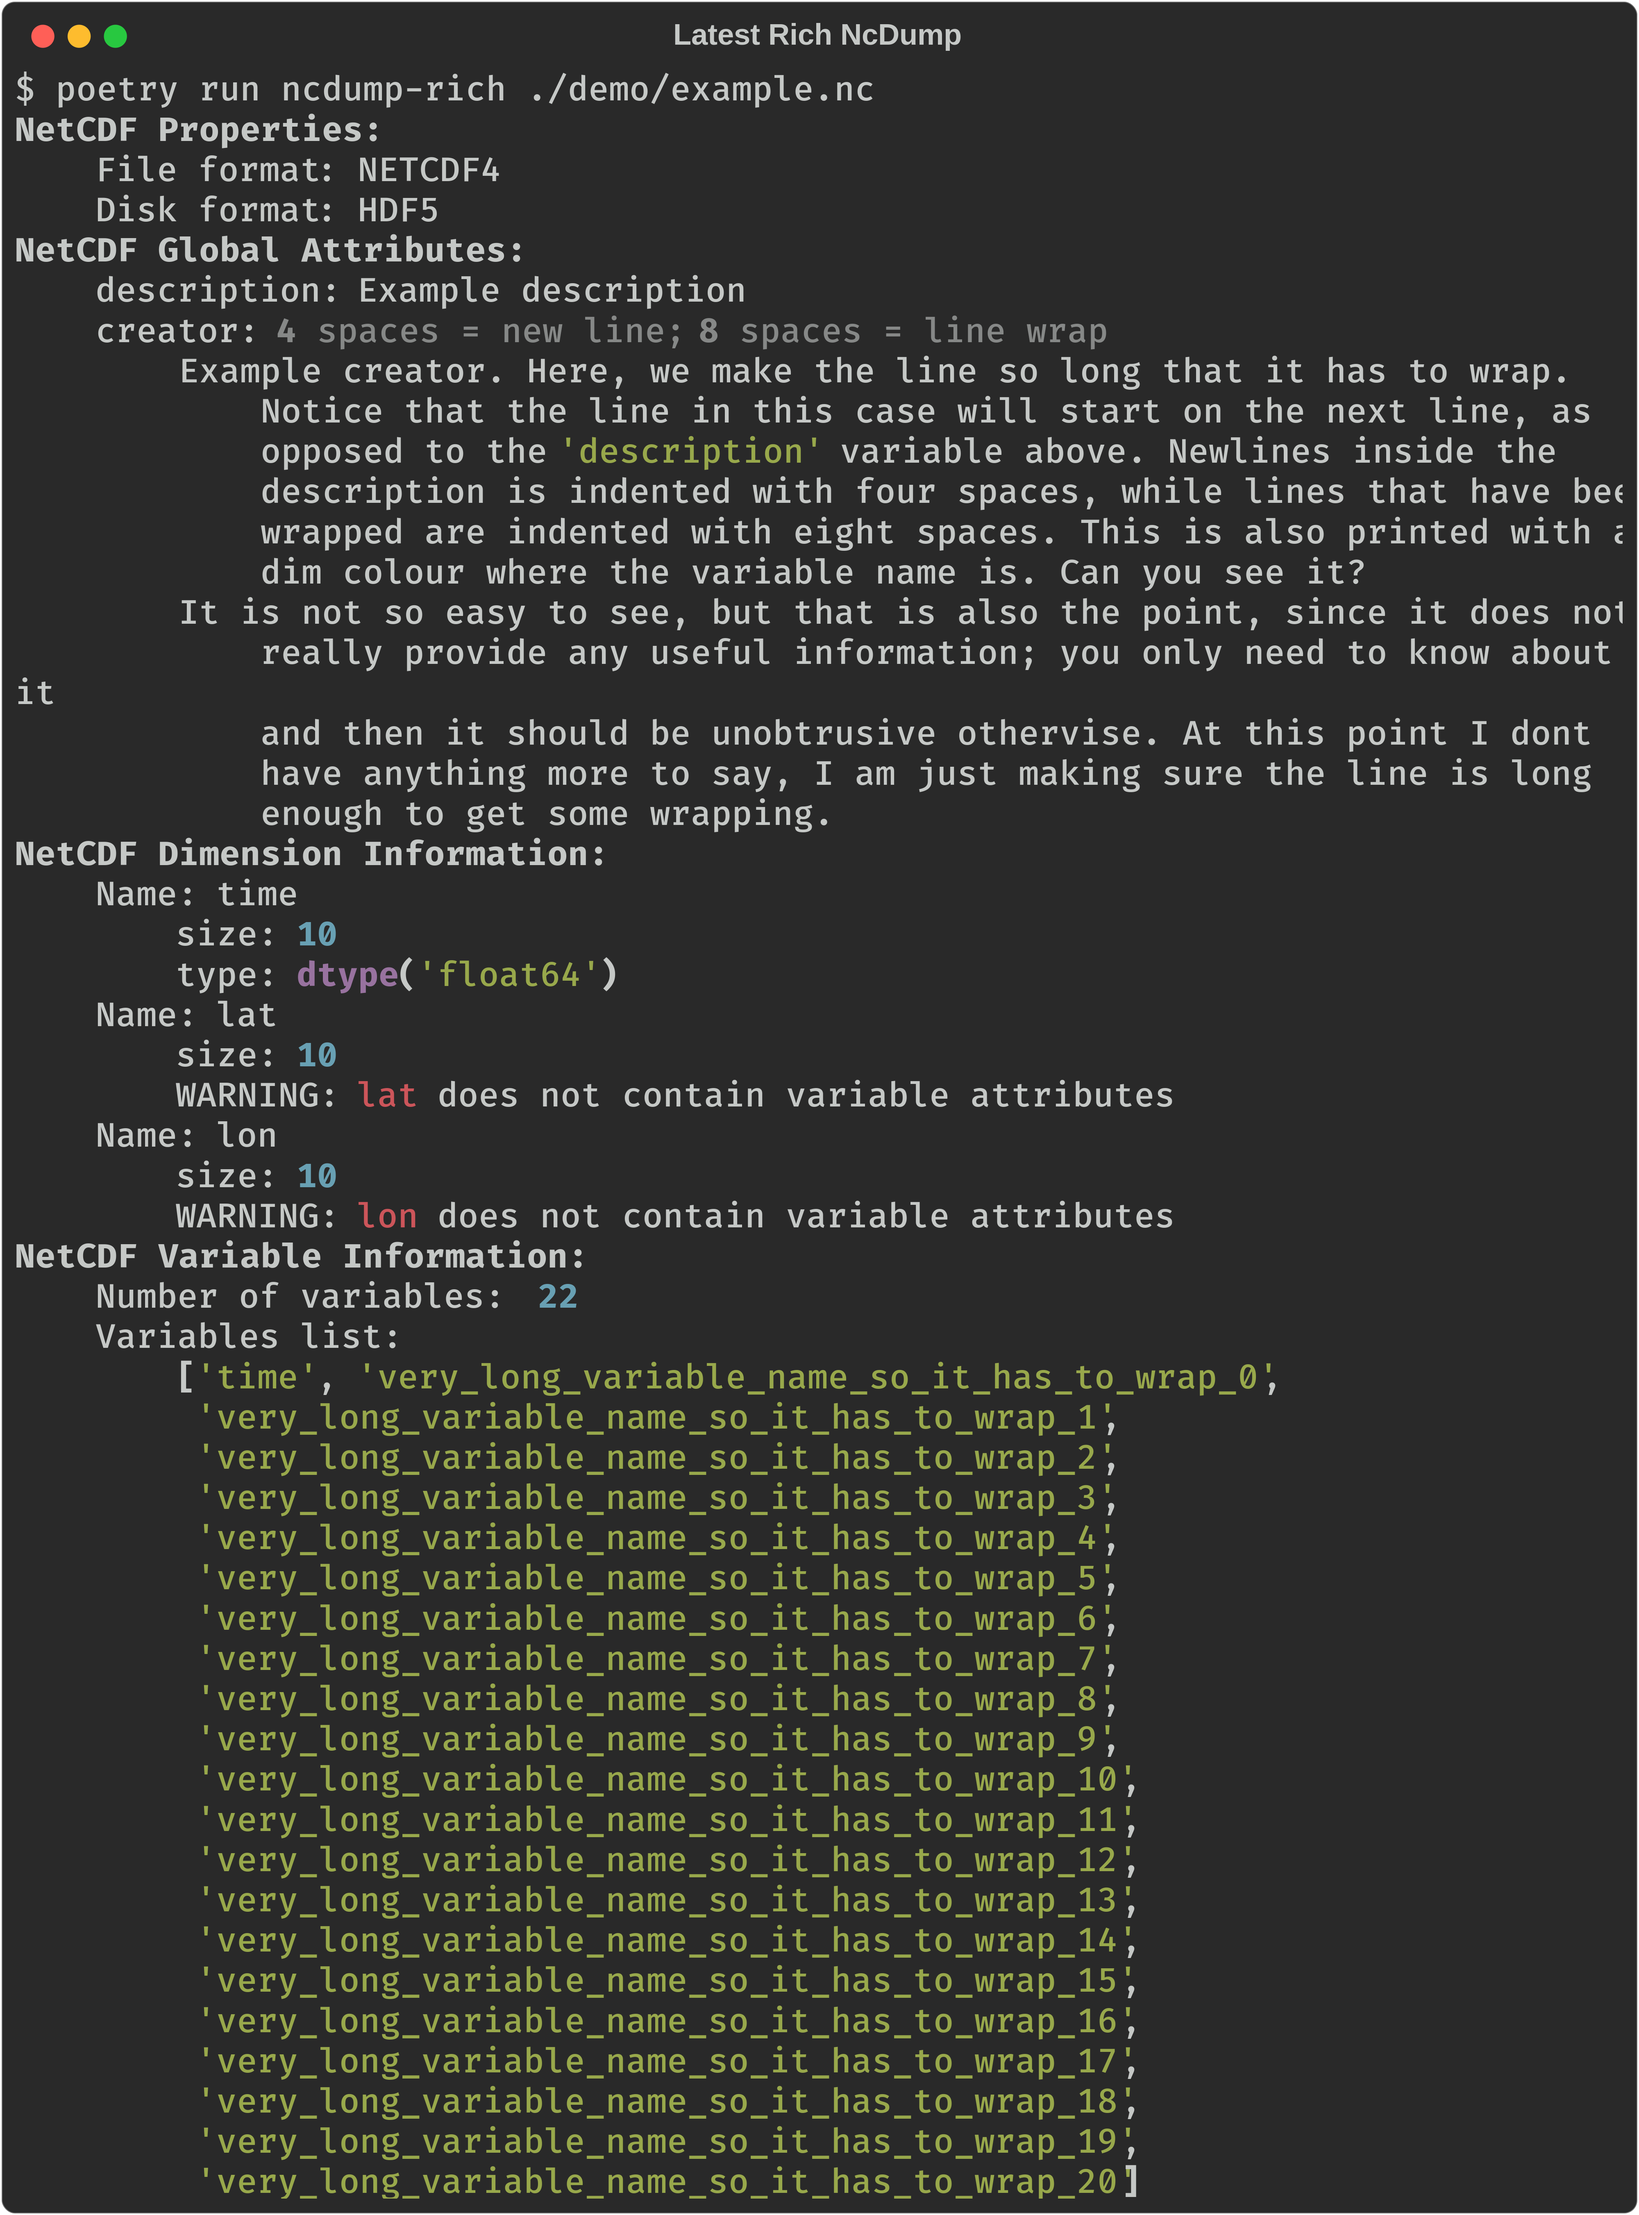
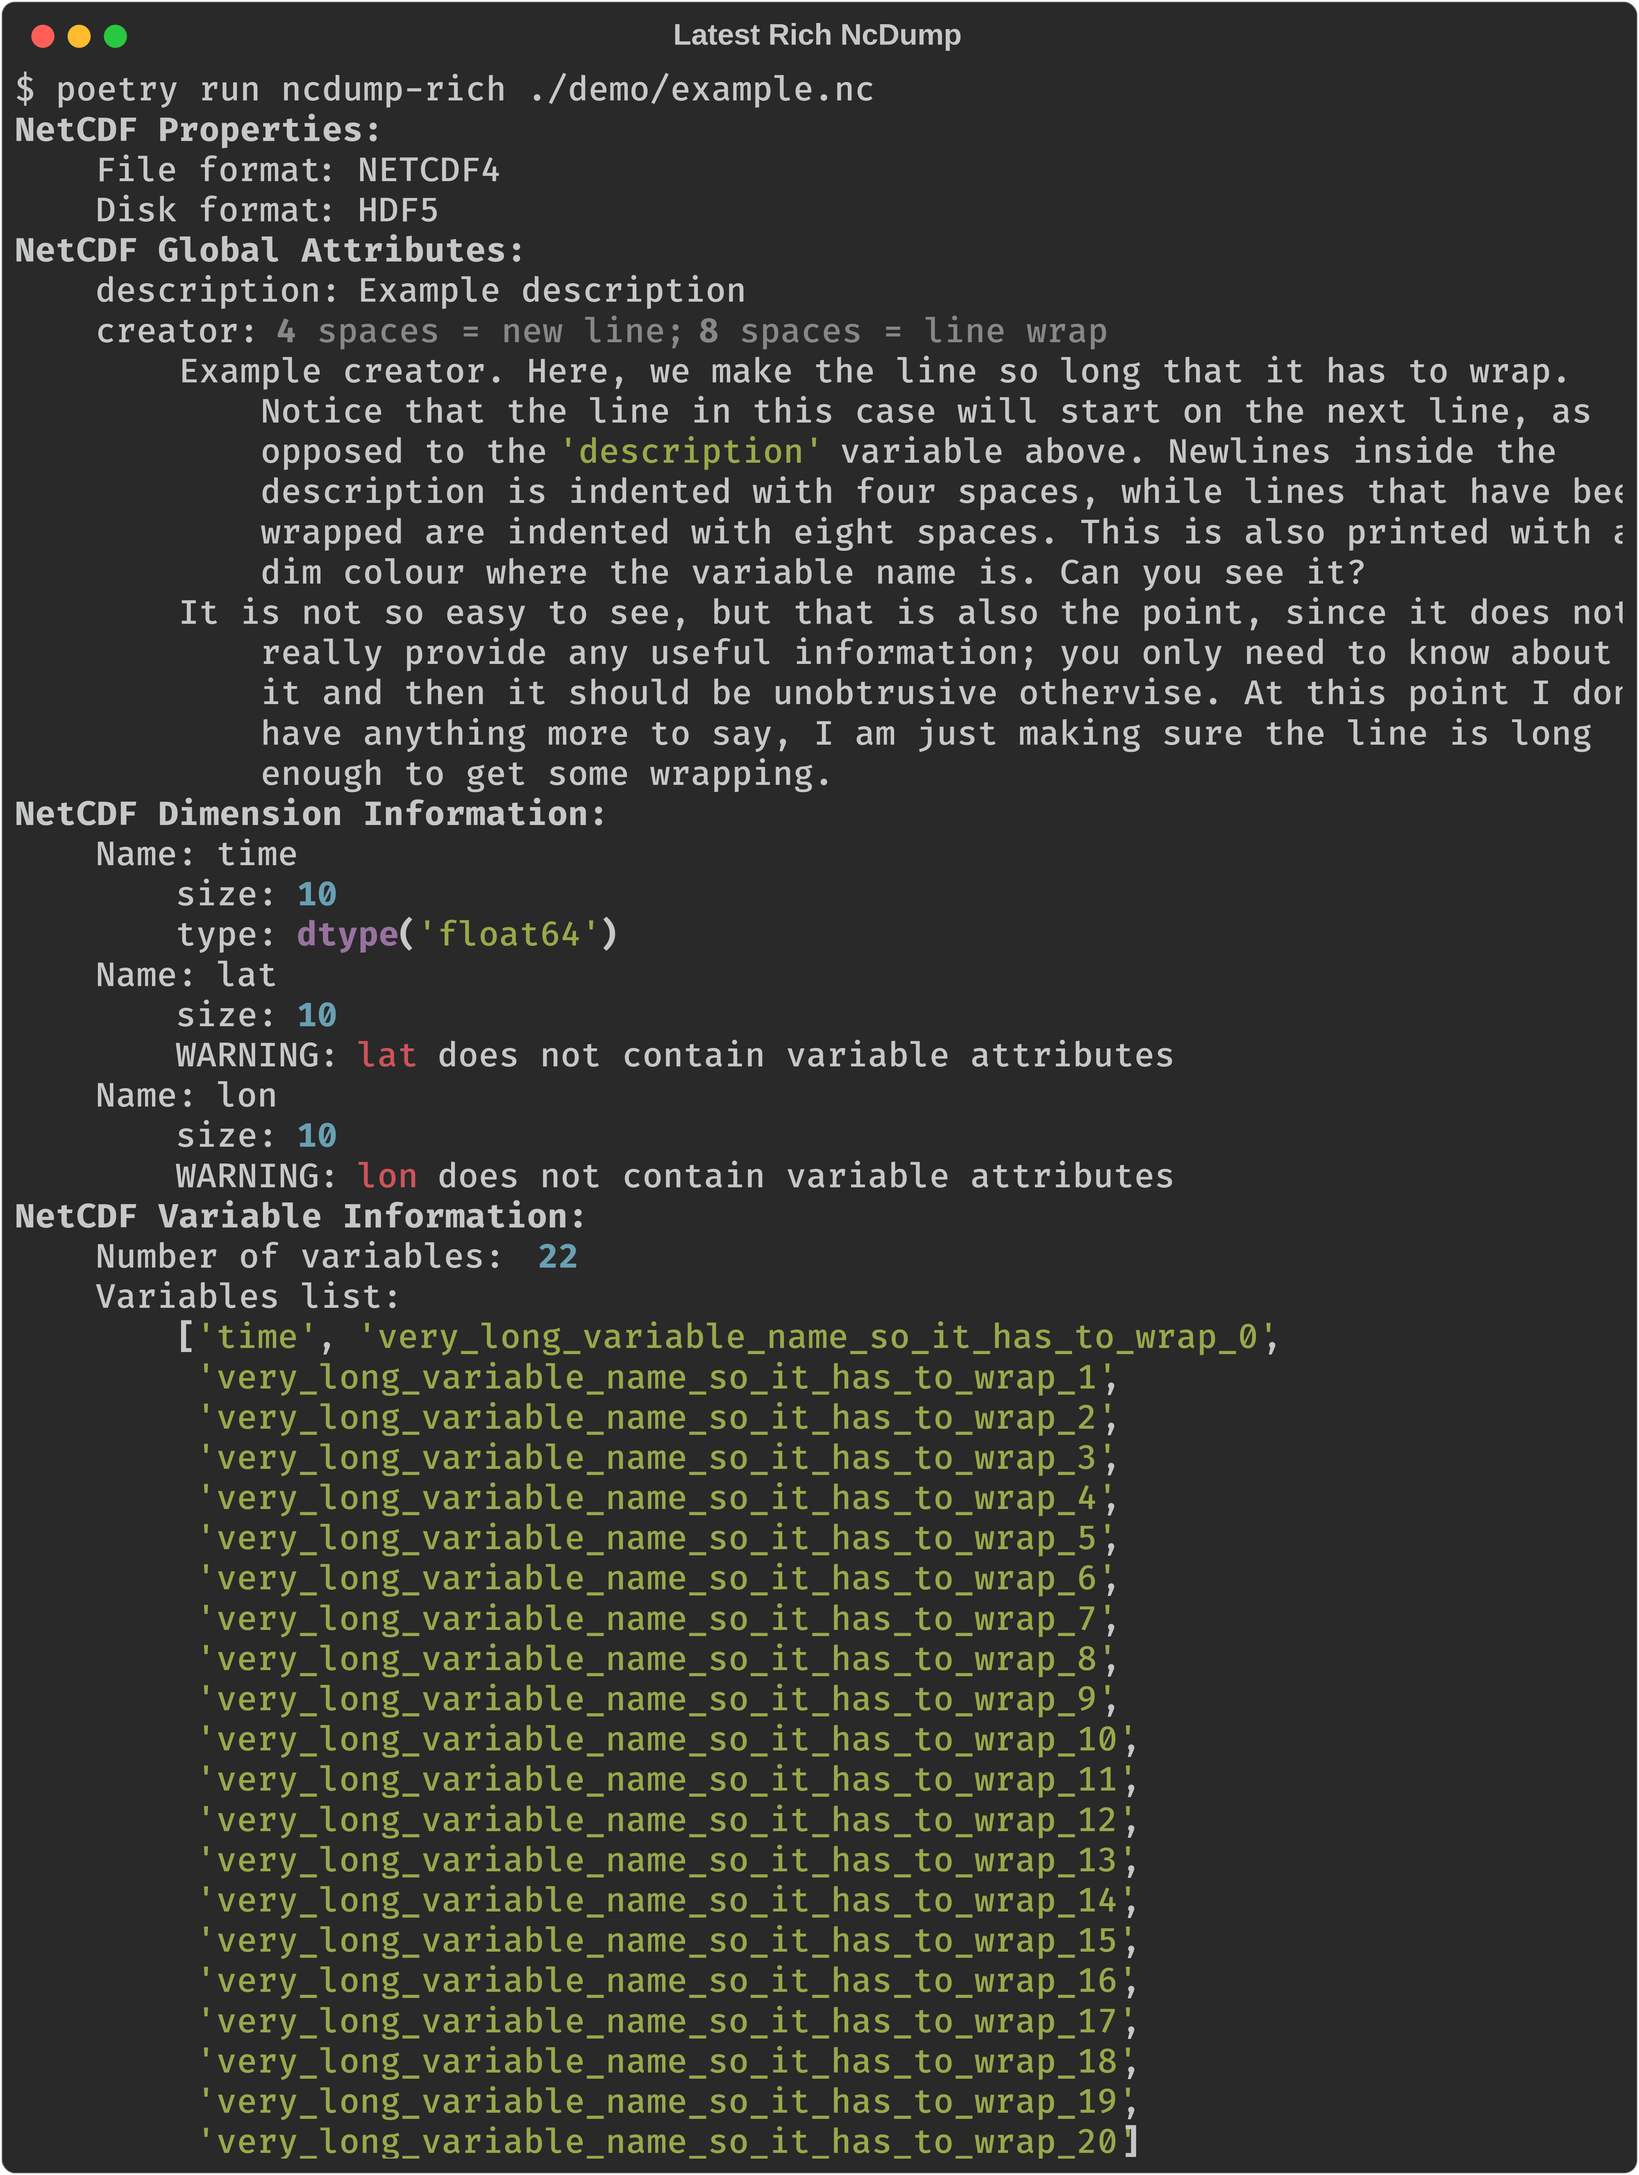
fix(linewrap): try to prevent edge case by having one char margin (#338)
Sometimes, if we are unlucky, the line wrap (maybe due to whitespace
somewhere) fails. So, we add one extra character to have a bit more
elbow room.

Changed region(s): [[0.0, 0.0311, 1.0, 0.9638], [0.5938, 0.4664, 0.7188, 0.4975]]

diff --git a/src/ncdump_rich/ncdump.py b/src/ncdump_rich/ncdump.py
@@ -77,7 +77,7 @@ def ncdump(src_path: str, long: bool = False, truecolor: bool = True) -> None:
     cprint("[bold white]NetCDF Global Attributes:[/bold white]")
     for nc_attr in nc_attrs:
         if any(
-            len(line) > width - 8
+            len(line) > width - 9
             for line in str(nc_file.getncattr(nc_attr)).splitlines()
         ):
             lineend = (
@@ -94,7 +94,7 @@ def ncdump(src_path: str, long: bool = False, truecolor: bool = True) -> None:
                         [
                             textwrap.fill(
                                 " ".join(line.split()),
-                                width=width - 8,
+                                width=width - 9,
                                 tabsize=4,
                                 break_long_words=False,
                                 replace_whitespace=False,
@@ -111,7 +111,7 @@ def ncdump(src_path: str, long: bool = False, truecolor: bool = True) -> None:
                         [
                             textwrap.fill(
                                 " ".join(line.split()),
-                                width=width - 8,
+                                width=width - 9,
                                 tabsize=4,
                                 break_long_words=False,
                                 replace_whitespace=False,
@@ -150,7 +150,7 @@ def ncdump(src_path: str, long: bool = False, truecolor: bool = True) -> None:
         if len(nc_vars) > 20:
             cprint("\t[italic white]Number of variables: [/italic white]", len(nc_vars))
             cprint("\t[italic white]Variables list: [/italic white]")
-            pp = pprint.PrettyPrinter(width=width - 8, compact=True)
+            pp = pprint.PrettyPrinter(width=width - 9, compact=True)
             cprint(textwrap.indent(pp.pformat(nc_vars), "\t\t"))
         else:
             for var in nc_vars:
